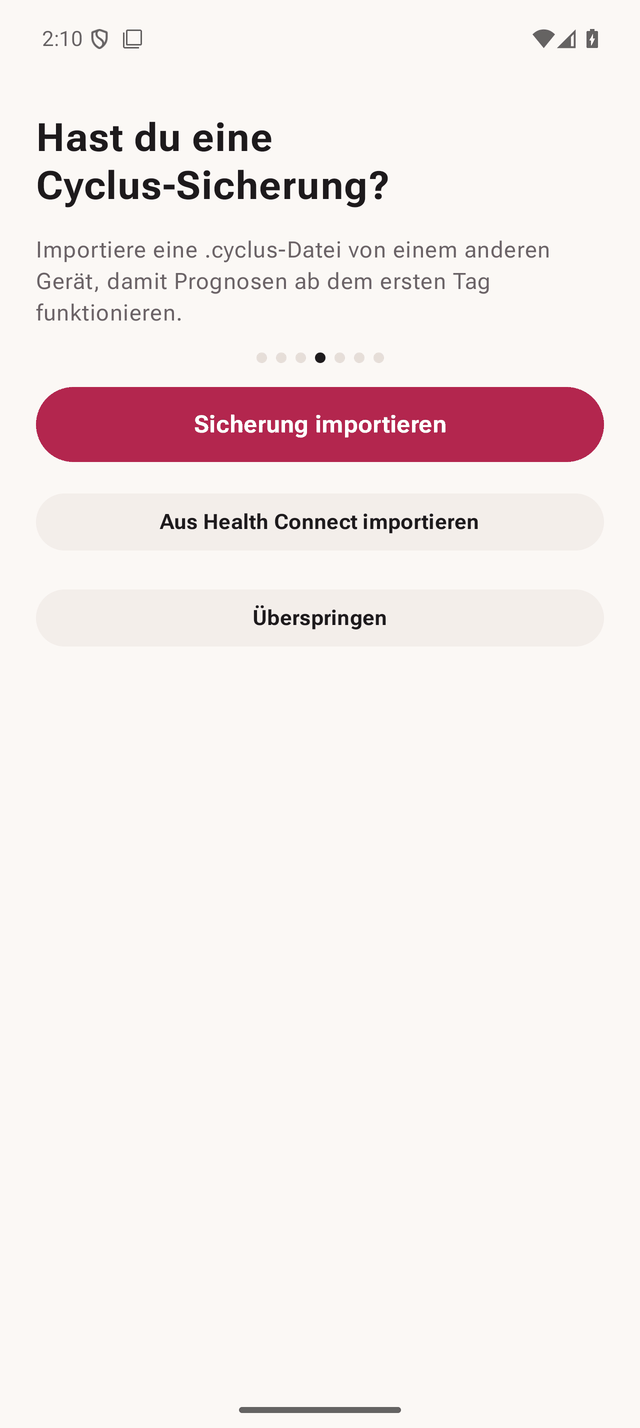
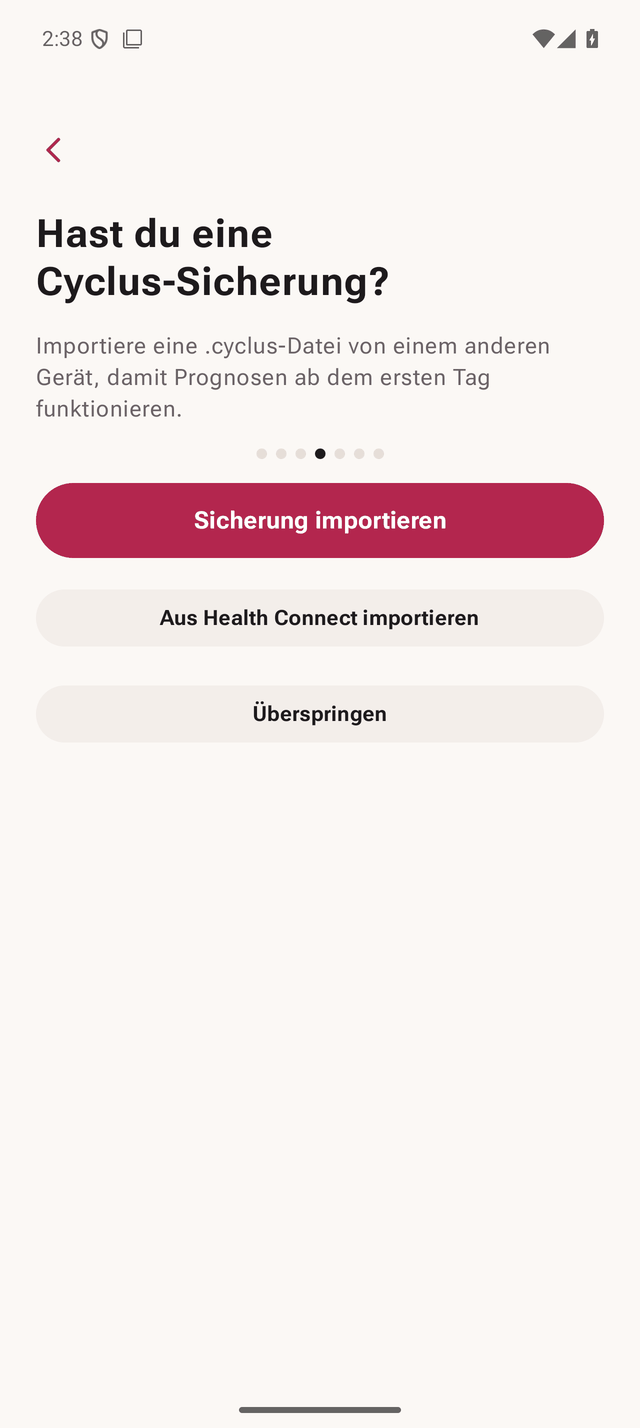
feat(onboarding): go back to the previous step and change an answer
Every step after the welcome has a back arrow (and system back) that returns
to the step actually shown before (Health Connect / import skip steps), as a
saveable history. Answers are kept and can be changed (incl. the "Nein,
vorbei" duration chips); going back to the notice keeps it agreed and
records no second confirmation. Prototype changed too; spec §7.1, PARITY
F-012, onboarding screenshots refreshed.

Changed region(s): [[0.0312, 0.0924, 0.9688, 0.4622], [0.4062, 0.493, 0.5938, 0.5238], [0.0938, 0.0, 0.125, 0.0308]]

diff --git a/androidApp/src/main/kotlin/com/nordinary/cyclus/ui/onboarding/OnboardingScreen.kt b/androidApp/src/main/kotlin/com/nordinary/cyclus/ui/onboarding/OnboardingScreen.kt
@@ -29,7 +29,10 @@ import androidx.compose.material3.rememberDatePickerState
 import androidx.compose.runtime.Composable
 import androidx.compose.runtime.LaunchedEffect
 import androidx.compose.runtime.getValue
-import androidx.compose.runtime.mutableIntStateOf
+import androidx.compose.runtime.saveable.rememberSaveable
+import androidx.activity.compose.BackHandler
+import androidx.compose.material3.IconButton
+import androidx.compose.foundation.layout.offset
 import androidx.compose.runtime.mutableStateOf
 import androidx.compose.runtime.remember
 import androidx.compose.runtime.setValue
@@ -72,10 +75,16 @@ fun OnboardingScreen(vm: AppViewModel, fmt: Fmt) {
     val app = ctx.applicationContext as CyclusApplication
     val choices by vm.onboardingChoices.collectAsStateWithLifecycle()
     val importStage by vm.privacy.importStage.collectAsStateWithLifecycle()
-    var step by remember { mutableIntStateOf(0) }
+    // the steps the person went through, so „Zurück“ (arrow or system back) returns to exactly the previous one
+    // (Health Connect and an import skip steps); every answer stays as given and can be changed
+    var history by rememberSaveable { mutableStateOf(listOf(0)) }
+    val step = history.last()
+    fun go(to: Int) { history = history + to }
+    fun back() { if (history.size > 1) history = history.dropLast(1) }
+    BackHandler(enabled = history.size > 1) { back() }
     var importing by remember { mutableStateOf(false) }
     var pinSheet by remember { mutableStateOf(false) }
-    var askDuration by remember { mutableStateOf(false) }
+    var askDuration by rememberSaveable { mutableStateOf(vm.onboardingChoices.value.durationDays != null) }
     val openDoc = rememberLauncherForActivityResult(ActivityResultContracts.OpenDocument()) { uri ->
         if (uri != null) { vm.privacy.startImport(uri); importing = true }
     }
@@ -83,13 +92,17 @@ fun OnboardingScreen(vm: AppViewModel, fmt: Fmt) {
     val hcAvailable = remember { vm.health.availability() == HealthAvailability.AVAILABLE }
     val hcLauncher = rememberLauncherForActivityResult(PermissionController.createRequestPermissionResultContract()) { granted ->
         vm.health.connected(granted)
-        if (granted.isNotEmpty()) step = 5 // cycles come from Health Connect: no need to ask for the last period
+        if (granted.isNotEmpty()) go(5) // cycles come from Health Connect: no need to ask for the last period
     }
 
     Column(
         Modifier.fillMaxSize().background(c.bg).systemBarsPadding().padding(24.dp).verticalScroll(rememberScrollState()),
         verticalArrangement = Arrangement.spacedBy(16.dp),
     ) {
+        // back arrow on every step after the welcome
+        if (step > 0) IconButton(onClick = ::back, Modifier.padding(start = 0.dp).offset(x = (-12).dp)) {
+            Icon(CyclusIcons.Back, fmt.s("back"), tint = c.accent)
+        }
         when (step) {
             0 -> {
                 Spacer(Modifier.height(48.dp))
@@ -97,13 +110,13 @@ fun OnboardingScreen(vm: AppViewModel, fmt: Fmt) {
                 Title(fmt.s("onb0T"), center = true)
                 Body(fmt.s("onb0B"), center = true)
                 Spacer(Modifier.height(32.dp))
-                PrimaryButton(fmt.s("getStarted"), { step = 1 }, Modifier.fillMaxWidth())
+                PrimaryButton(fmt.s("getStarted"), { go(1) }, Modifier.fillMaxWidth())
             }
             1 -> {
                 Title(fmt.s("onb1T"))
                 Promise(fmt.s("pr1"), fmt.s("pr1s")); Promise(fmt.s("pr2"), fmt.s("pr2s")); Promise(fmt.s("pr3"), fmt.s("pr3s"))
                 Body(fmt.s("onb1N"), small = true)
-                Dots(1); PrimaryButton(fmt.s("cont"), { step = 2 }, Modifier.fillMaxWidth())
+                Dots(1); PrimaryButton(fmt.s("cont"), { go(2) }, Modifier.fillMaxWidth())
             }
             2 -> {
                 // the one step that can't be skipped (spec §7.1): agreed and timed at this tap, before any data enters
@@ -112,7 +125,9 @@ fun OnboardingScreen(vm: AppViewModel, fmt: Fmt) {
                 Title(fmt.s("noticeT")); Body(fmt.s("noticeB"))
                 NoticeContent(fmt)
                 Dots(2)
-                NoticeConfirm(fmt, fmt.s("agreeCont")) { vm.recordConsent(); step = 3 }
+                // back here after agreeing: still ticked, and no second confirmation is recorded
+                val agreed = !com.nordinary.cyclus.presenter.Consent.needed(vm.model.value?.settings ?: emptyMap(), System.currentTimeMillis())
+                NoticeConfirm(fmt, fmt.s("agreeCont"), initiallyRead = agreed) { if (!agreed) vm.recordConsent(); go(3) }
             }
             3 -> {
                 Title(fmt.s("onb2T")); Body(fmt.s("onb2B"))
@@ -122,7 +137,7 @@ fun OnboardingScreen(vm: AppViewModel, fmt: Fmt) {
                     stringResource(R.string.onb_hc),
                     { app.lock.suspendForExternalActivity(); hcLauncher.launch(vm.health.readPermissions()) }, Modifier.fillMaxWidth(),
                 )
-                SecondaryButton(fmt.s("skip"), { step = 4 }, Modifier.fillMaxWidth())
+                SecondaryButton(fmt.s("skip"), { go(4) }, Modifier.fillMaxWidth())
             }
             4 -> {
                 Title(fmt.s("onb3T"))
@@ -156,8 +171,8 @@ fun OnboardingScreen(vm: AppViewModel, fmt: Fmt) {
                 }
                 Body(fmt.s("onb3B"), small = true)
                 Dots(4)
-                PrimaryButton(fmt.s("cont"), { step = 5 }, Modifier.fillMaxWidth())
-                SecondaryButton(fmt.s("dontRemember"), { vm.onboardingChoices.value = choices.copy(lastPeriodStart = null, stillBleeding = false, durationDays = null); step = 5 }, Modifier.fillMaxWidth())
+                PrimaryButton(fmt.s("cont"), { go(5) }, Modifier.fillMaxWidth())
+                SecondaryButton(fmt.s("dontRemember"), { vm.onboardingChoices.value = choices.copy(lastPeriodStart = null, stillBleeding = false, durationDays = null); askDuration = false; go(5) }, Modifier.fillMaxWidth())
             }
             5 -> {
                 Title(fmt.s("onb4T")); Body(fmt.s("onb4B"))
@@ -175,7 +190,7 @@ fun OnboardingScreen(vm: AppViewModel, fmt: Fmt) {
                     })
                 }
                 Body(stringResource(R.string.onb_conceive_note), small = true)
-                Dots(5); PrimaryButton(fmt.s("cont"), { step = 6 }, Modifier.fillMaxWidth())
+                Dots(5); PrimaryButton(fmt.s("cont"), { go(6) }, Modifier.fillMaxWidth())
             }
             else -> {
                 Spacer(Modifier.height(32.dp))
@@ -195,7 +210,7 @@ fun OnboardingScreen(vm: AppViewModel, fmt: Fmt) {
                 importing = false
                 // continue to the life-stage and lock steps; an import never sets up the app lock
                 val m = vm.model.value
-                step = if (m != null && (m.activeEpisode != null || m.settings.containsKey(SettingKeys.MODE))) 6 else 5
+                go(if (m != null && (m.activeEpisode != null || m.settings.containsKey(SettingKeys.MODE))) 6 else 5)
             }
         },
         onDismiss = { vm.privacy.cancelImport(); importing = false },

diff --git a/prototype/index.html b/prototype/index.html
@@ -273,6 +273,7 @@ textarea,.field{width:100%;border-radius:12px;border:1px solid var(--line);backg
 .onb h2{font-size:28px;line-height:1.15;margin:0;font-weight:800;font-family:var(--f-round);text-wrap:balance;hyphens:manual}
 .onb p{margin:0;color:var(--ink2)}
 .onb .grow{flex:1}
+.onbback{align-self:flex-start;margin:-40px 0 -6px -8px;width:40px;height:40px;display:grid;place-items:center;color:var(--period);background:none;border:0}.onbback svg{width:22px;height:22px}
 .onb .dots{display:flex;gap:6px;justify-content:center}
 .onb .dots i{width:6px;height:6px;border-radius:3px;background:var(--line)}
 .onb .dots i.on{width:18px;background:var(--period)}
@@ -1666,7 +1667,8 @@ function renderOnb(){
   if (step===5) body = `<h2>${t('onb4T')}</h2><p>${t('onb4B')}</p><div class="chips">${['f_conceive','ep_hbc','ep_preg','ep_pp','ep_peri','ep_pcos','ep_endo','ep_t','ep_none'].map(x=>`<button class="chip" data-act="onbFactor" data-v="${x}" aria-pressed="${st.factors.includes(x)}">${t(x)}</button>`).join('')}</div>
      <label class="small" for="byear">${t('byear')}</label><select class="field" id="byear"><option>${t('noSay')}</option>${Array.from({length:50},(_,i)=>`<option>${2013-i}</option>`).join('')}</select><div class="grow"></div>${dots}<button class="btn primary block" data-act="onbNext">${t('cont')}</button>`;
   if (step===6) body = `<div class="grow"></div><div class="faceid">${I.faceid}</div><h2>${t('onb5T')}</h2><p>${t('onb5B')}</p><div class="grow"></div>${dots}<button class="btn primary block" data-act="onbDone" data-v="lock">${t('turnOn')}</button><button class="btn secondary block" data-act="onbDone">${t('notNow')}</button>`;
-  return `<div class="onb" role="dialog" aria-label="${t('welcomeDlg')}">${body}</div>`;
+  const backBtn = step>0 && !st.importing ? `<button class="onbback" data-act="onbBack" aria-label="${t('back')}">${I.back}</button>` : '';
+  return `<div class="onb" role="dialog" aria-label="${t('welcomeDlg')}">${backBtn}${body}</div>`;
 }
 const noticeHtml = () => `<div class="promise">${[1,2,3,4].map(i=>`<div><i style="width:10px;height:10px;border-radius:5px;margin:6px auto 0;align-self:start;background:var(${i===1?'--period':'--warning'})"></i><span><b>${t('nt'+i)}</b><br><span class="muted">${t('nt'+i+'s')}</span></span></div>`).join('')}</div>`;
 const renderLock = () => `<div class="lock" role="dialog" aria-label="${t('lockedT')}"><div class="glyph">${I.ring}</div><h2 style="margin:0;font-size:22px">${t('lockedT')}</h2><p class="muted" style="margin:0">${t('lockedB')}</p><button class="btn primary" data-act="unlock" id="unlockBtn">${t('unlockBtn')}</button></div>`;
@@ -1791,13 +1793,14 @@ app.addEventListener('click', e => {
     case 'onbNext': {
       const from = S.onb.step;
       if (from===4 && v!=='unknown'){ const val=(document.getElementById('lastp')||{}).value; if (val){ const [yy,mm,dd]=val.split('-').map(Number); const d0=D(yy,mm,dd); for (let k=0;k<5;k++) if (d0+k<=TODAY) setLog(d0+k, l=>{ l.flow=['medium','heavy','medium','light','light'][k]; }); } }
-      S.onb.step = from+1; render(false); break; }
-    case 'onbAgree': S.consentAt = Date.now(); S.onb.step = 3; render(false); break;
+      (S.onb.hist=S.onb.hist||[]).push(from); S.onb.step = from+1; render(false); break; }
+    case 'onbBack': S.onb.step = (S.onb.hist||[]).pop() ?? 0; render(false); break;
+    case 'onbAgree': if (!S.consentAt) S.consentAt = Date.now(); (S.onb.hist=S.onb.hist||[]).push(2); S.onb.step = 3; render(false); break;
     case 'onbImport':
       S.onb.importing=true; render(false);
       requestAnimationFrame(()=>requestAnimationFrame(()=>{ const b=document.getElementById('ibar'); if (b) b.style.width='100%'; }));
       setTimeout(()=>{ const m=document.getElementById('imsg'); if (m) m.textContent=t('found'); }, 700);
-      setTimeout(()=>{ const f=S.onb.factors; genScenario('day12'); S.scen=null; S.onb={step:5, factors:f, imported:true}; render(false); }, 1500);
+      setTimeout(()=>{ const f=S.onb.factors; genScenario('day12'); S.scen=null; S.onb={step:5, factors:f, imported:true, hist:[...(S.onb.hist||[]), 3]}; render(false); }, 1500);
       break;
     case 'onbFactor': { const f=S.onb.factors; S.onb.factors = v==='ep_none' ? (f.includes(v)?[]:[v]) : (f.includes(v)? f.filter(x=>x!==v) : [...f.filter(x=>x!=='ep_none'), v]); render(false); break; }
     case 'onbDone': { const f=S.onb.factors; S.privacy.appLock = v==='lock';

diff --git a/androidApp/src/main/kotlin/com/nordinary/cyclus/ui/onboarding/Notice.kt b/androidApp/src/main/kotlin/com/nordinary/cyclus/ui/onboarding/Notice.kt
@@ -62,9 +62,9 @@ fun NoticeContent(fmt: Fmt) {
 
 /** Checkbox + button: nothing is agreed until the box is ticked. */
 @Composable
-fun NoticeConfirm(fmt: Fmt, button: String, onAgree: () -> Unit) {
+fun NoticeConfirm(fmt: Fmt, button: String, initiallyRead: Boolean = false, onAgree: () -> Unit) {
     val c = Cyclus.colors
-    var read by rememberSaveable { mutableStateOf(false) }
+    var read by rememberSaveable { mutableStateOf(initiallyRead) }
     Row(
         Modifier.fillMaxWidth().clip(RoundedCornerShape(14.dp)).background(c.surface)
             .toggleable(read, role = Role.Checkbox, onValueChange = { read = it }).padding(horizontal = 8.dp, vertical = 10.dp),
@@ -89,7 +89,7 @@ fun ConsentScreen(fmt: Fmt, onAgree: () -> Unit, onPrivacy: () -> Unit) {
             Text(fmt.s("noticeRow"), Modifier.semantics { heading() }, fontSize = 26.sp, fontWeight = FontWeight.Bold, color = c.ink, lineHeight = 32.sp)
             Text(fmt.s("noticeAgain"), fontSize = 15.sp, color = c.ink2)
             NoticeContent(fmt)
-            NoticeConfirm(fmt, fmt.s("agreeCont"), onAgree)
+            NoticeConfirm(fmt, fmt.s("agreeCont"), onAgree = onAgree)
             // without agreeing, the person can still take their data with them or erase it (trust rule: never locked out)
             TextButton(onClick = onPrivacy, Modifier.align(Alignment.CenterHorizontally)) {
                 Text(fmt.s("aPrivacy"), color = c.accent, fontWeight = FontWeight.SemiBold)
@@ -104,7 +104,7 @@ fun ConsentScreen(fmt: Fmt, onAgree: () -> Unit, onPrivacy: () -> Unit) {
 fun NoticeSheet(fmt: Fmt, onAgree: () -> Unit, onDismiss: () -> Unit) = NoticeSheetFrame(fmt, fmt.s("noticeRow"), onDismiss) {
     Text(fmt.s("noticeFert"), fontSize = 15.sp, color = Cyclus.colors.ink2)
     NoticeContent(fmt)
-    NoticeConfirm(fmt, fmt.s("agree"), onAgree)
+    NoticeConfirm(fmt, fmt.s("agree"), onAgree = onAgree)
 }
 
 /** Privacy → „Wichtiger Hinweis“: the text, every confirmation with its time, and the confirm button when due. */
@@ -113,7 +113,7 @@ fun ConsentHistorySheet(fmt: Fmt, history: List<Consent.Record>, needed: Boolean
     NoticeSheetFrame(fmt, fmt.s("noticeRow"), onDismiss, dismissLabel = fmt.s("close")) {
         val c = Cyclus.colors
         NoticeContent(fmt)
-        if (needed) NoticeConfirm(fmt, fmt.s("agree"), onAgree)
+        if (needed) NoticeConfirm(fmt, fmt.s("agree"), onAgree = onAgree)
         Text(fmt.s("consentHist"), Modifier.padding(top = 6.dp).semantics { heading() }, fontWeight = FontWeight.SemiBold, color = c.ink)
         Column(Modifier.fillMaxWidth().clip(RoundedCornerShape(14.dp)).background(c.surface)) {
             if (history.isEmpty()) Text(fmt.s("consentNone"), Modifier.padding(14.dp), color = c.ink2)

diff --git a/docs/PARITY.md b/docs/PARITY.md
@@ -51,7 +51,7 @@ Status values: `—` not started · `wip` · `done` · `off` (feature-flagged of
 | F-009 | „Deine Muster“ cards | 11.12 | Einblicke + Muster | done | — | | Muted patterns are persisted (prototype: session only). **Layout changed 2026-11-22 (owner feedback, iOS to follow):** Insights shows a summary card (top 3 + „Alle N Muster ansehen“), the Arztbericht right below, history 3 + „Alle anzeigen“; a separate „Muster“ screen has Gefunden/Beobachtet segments, area filters, full cards and restore Overview rows show a status chip only for early patterns (consistent is the default there); chip moves under the title at large font sizes. |
 | F-010 | Why this window? / Method sheets | 7.14 | Sheets | done | — | | Method copy: Android override (no iPhone, no outlier-question claim) |
 | F-011 | Conceive mode UI | 7.14 | Heute (Kinderwunsch) | done | — | | Regulatory feature flag per region still to add before release |
-| F-012 | Onboarding | 7.1 | Onboarding | done | — | | Import step: `.cyclus` backup or Health Connect (then the last-period question is skipped). Last period logs only stated days as unspecified flow (no invented levels). Birth year not collected until the engine uses age-band priors |
+| F-012 | Onboarding | 7.1 | Onboarding | done | — | | **2026-11-23 (prototype changed too):** back arrow + system back on every step after the welcome, to the previous step actually shown; answers kept; the notice stays agreed (no second confirmation). Import step: `.cyclus` backup or Health Connect (then the last-period question is skipped). Last period logs only stated days as unspecified flow (no invented levels). Birth year not collected until the engine uses age-band priors |
 | F-013 | Privacy Center | 7.8 | Datenschutz | done | — | | „Sichtbarkeit“: discreet notifications, widget details (off), shortcut (off), note on plaintext side files. Health Connect: status, sync now, write toggles (all off), removed review, disconnect, „In Health Connect“ row Side files now sealed with their own Keystore key (note updated); backup note explains copy + key inside the end-to-end encrypted Google backup. |
 | F-014 | Settings + in-app language | 4 | Einstellungen | done | — | | Language (Android 13+), goal, show fertile window, life stage, Mitteilungen screen |
 | F-015 | App lock (biometric + PIN) | 7.12 | Sperre | done | — | | Lock paused (with notice) when nothing could open it |

diff --git a/docs/DESIGN_SPEC.md b/docs/DESIGN_SPEC.md
@@ -353,7 +353,7 @@ SF Symbols (hierarchical rendering). Custom symbols (SF Symbols template format)
 | 6 | Anything affecting your cycle? | Chips: Kinderwunsch · Hormonelle Verhütung · Schwanger · Nach der Geburt / Stillzeit · (conditions hidden until the engine widens ranges for them) · Nichts davon | **Weiter** |
 | 7 | App lock | „Cyclus sperren?“ (biometrics/screen lock; PIN setup when nothing else can unlock) | **Einschalten** / Jetzt nicht |
 
-Birth year is not asked (no age-band priors yet). Screenshots: `screens/android/01-onboarding-*.png`.
+Every step after the welcome has a back arrow (and system back) to the step the person came from — after a health-store connection or an import, that is the import step — with every answer kept and changeable; going back to the notice keeps it agreed and records no second confirmation. Birth year is not asked (no age-band priors yet). Screenshots: `screens/android/01-onboarding-*.png`.
 
 **Notice consent (2026-11-23).** Agreeing stores version + time (device only: not in exports, not in device snapshots; erase removes it). It is asked again, full screen after unlock, when the last confirmation of the current wording is older than 12 months, when the wording version is raised, and on a restored or new phone. That screen keeps „Datenschutz“ reachable (export, erase), so nobody is locked out of their own data by not agreeing. Switching on the fertile window or Kinderwunsch shows the notice as a sheet first; the switch only changes after agreeing. Datenschutz › Rechtliches › „Wichtiger Hinweis“ shows the last confirmation; its sheet lists every confirmation (date, time, version). The wording is not legal advice and needs a lawyer's review before public release.
 
